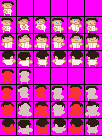
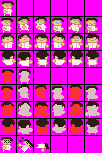
added evil code that handles game over by crashing the game

diff --git a/src/Screens/DeathScreen.java b/src/Screens/DeathScreen.java
@@ -1,0 +1,87 @@
+package Screens;
+import Engine.*;
+import Game.GameState;
+import Game.ScreenCoordinator;
+import GameObject.Sprite;
+import Level.Map;
+import Maps.TitleScreenMap;
+import SpriteFont.SpriteFont;
+
+import java.awt.*;
+
+/*
+ * WARNING!! CODE BELOW IS 100% HAUNTED AND SCARY DO NOT TOUCH!! <3
+ */
+
+public class DeathScreen extends Screen {
+    protected ScreenCoordinator screenCoordinator;
+    protected SpriteFont playAgain;
+    protected SpriteFont giveUp;
+    protected int keyPressTimer;
+    protected int currentMenuItemHovered = 0;
+    protected int menuItemSelected = -1;
+    protected Map background;
+    protected KeyLocker keyLocker = new KeyLocker();
+    protected Sprite titleScreen = new Sprite(ImageLoader.load("ImageScreens/gameOver.png"), 0, 0);
+    GraphicsHandler graphicsHandler = new GraphicsHandler();
+    ScreenManager screenManager = new ScreenManager();
+
+    public DeathScreen(ScreenCoordinator screenCoordinator){
+        this.screenCoordinator = screenCoordinator;
+    }
+
+    public void initialize(){
+        playAgain = new SpriteFont("Try Again", 100, 300, "Comic Sans", 30, new Color(255, 0, 0));
+        playAgain.setOutlineColor(Color.black);
+        playAgain.setOutlineThickness(3);
+        giveUp = new SpriteFont("Give Up", 300, 300, "Comic Sans", 30, new Color(110, 0, 0));
+        giveUp.setOutlineColor(Color.black);
+        giveUp.setOutlineThickness(3);
+        background = new TitleScreenMap();
+        background.setAdjustCamera(false);
+        keyPressTimer = 0;
+        menuItemSelected = -1;
+        keyLocker.lockKey(Key.SPACE);
+    }
+
+    @Override
+    public void update(){
+
+        background.update(null);
+        if (Keyboard.isKeyDown(Key.A) && keyPressTimer == 0) {
+            keyPressTimer = 14;
+            currentMenuItemHovered--;
+        } else if (Keyboard.isKeyDown(Key.D) && keyPressTimer == 0) {
+            keyPressTimer = 14;
+            currentMenuItemHovered++;
+        } else {
+            if (keyPressTimer > 0) {
+                keyPressTimer--;
+            }
+        }
+
+        if (currentMenuItemHovered > 1) {
+            currentMenuItemHovered = 0;
+        } else if (currentMenuItemHovered < 0) {
+            currentMenuItemHovered = 1;
+        }
+
+        if (Keyboard.isKeyUp(Key.SPACE)) {
+            keyLocker.unlockKey(Key.SPACE);
+        }
+        if (!keyLocker.isKeyLocked(Key.SPACE) && Keyboard.isKeyDown(Key.SPACE)) {
+            menuItemSelected = currentMenuItemHovered;
+            if (menuItemSelected == 0) {
+                screenCoordinator.setGameState(GameState.LEVEL);
+            } else if (menuItemSelected == 1) {
+                screenCoordinator.setGameState(GameState.MENU);
+            }
+        }
+    }
+    public void draw(GraphicsHandler graphicsHandler) {
+            background.draw(graphicsHandler);
+            titleScreen.draw(graphicsHandler);
+            playAgain.draw(graphicsHandler);
+            giveUp.draw(graphicsHandler);
+        }
+}

diff --git a/src/Level/Player.java b/src/Level/Player.java
@@ -185,7 +185,14 @@ public abstract class Player extends GameObject {
             case CHANGE:
                 playerChange();
                 break;
+            case DYING:
+                killPlayer();
+                break;
         }
+    }
+
+    protected void killPlayer(){
+        System.out.println("we did it reddit");
     }
 
     protected void playerFiring(){
@@ -214,7 +221,6 @@ public abstract class Player extends GameObject {
         }
     }
     protected void playerChange(){
-        
         if(projectileInHand >= playerCurrentProjectiles.size()-1){
             projectileInHand = 0;
         }
@@ -408,6 +414,9 @@ public abstract class Player extends GameObject {
                 if(invincibilityTimer == 0){
                     hurtPlayer(entityCollidedWith);
                     System.out.println("player hit; hp: " + playerHealth);
+                    if(Player.getPlayerHealth() <= 0){
+                        playerState = PlayerState.DYING;
+                    }
                     invincibilityTimer = 180;
                 }
             }
@@ -425,10 +434,18 @@ public abstract class Player extends GameObject {
                 if(invincibilityTimer == 0){
                     hurtPlayer(entityCollidedWith);
                     System.out.println("player hit; hp: " + playerHealth);
+                    if(Player.getPlayerHealth() <= 0){
+                        playerState = PlayerState.DYING;
+                    }
                     invincibilityTimer = 180;
                 }
             }
+            if(entityCollidedWith.getIdentity() == "xpOrb"){
+                entityCollidedWith.setMapEntityStatus(MapEntityStatus.REMOVED);
+                playerXPLevel += 1;
+            }
         }
+        
     }
 
     // other entities can call this method to hurt the player
@@ -637,7 +654,7 @@ public abstract class Player extends GameObject {
         playerHealth = hlth;
       }
        //playerRange getter
-       public int getPlayerHealth() {
+       public static int getPlayerHealth() {
         return playerHealth;
       }
       public static void addPlayerHealth(int x) {
@@ -740,5 +757,8 @@ public abstract class Player extends GameObject {
       }
       public SpriteSheet getSpriteSheet(){
         return spriteSheet;
+      }
+      public static void handleDeath(){
+        //code for dyinggg! :3
       }
     }

diff --git a/src/Players/Cat.java b/src/Players/Cat.java
@@ -298,6 +298,20 @@ int spriteOffset = 0;
                         .withBounds(4, 3, 7, 11)
                         .build(),
         });
+        put("DEATH", new Frame[] {
+                new FrameBuilder(spriteSheet.getSprite(8, 0), 30)
+                        .withScale(3)
+                        .withBounds(4, 3, 7, 11)
+                        .build(),
+                new FrameBuilder(spriteSheet.getSprite(8, 1), 10)
+                        .withScale(3)
+                        .withBounds(4, 3, 7, 11)
+                        .build(),
+                new FrameBuilder(spriteSheet.getSprite(8, 2), 50)
+                        .withScale(3)
+                        .withBounds(4, 3, 7, 11)
+                        .build(),
+        });
         }};
     }
 }

diff --git a/src/SkillTrees/VeggieSkillTree.java b/src/SkillTrees/VeggieSkillTree.java
@@ -77,7 +77,7 @@ public class VeggieSkillTree {
             Boolean unlock = false;
             if(node == centerSkill){
                 if(!centerSkill.getUnlockedStatus()){
-                    Player.addPlayerMaxHealth(10);
+                    Player.addPlayerMaxHealth(1);
                     centerSkill.setUnlockedStatus(true);
                     unlock = true;
                 }

diff --git a/src/Level/PlayerState.java b/src/Level/PlayerState.java
@@ -2,5 +2,5 @@ package Level;
 
 // This enum represents different states the Player can be in
 public enum PlayerState {
-    STANDING, WALKING, INTERACTING, FIRING, CHANGE
+    STANDING, WALKING, INTERACTING, FIRING, CHANGE, DYING
 }
